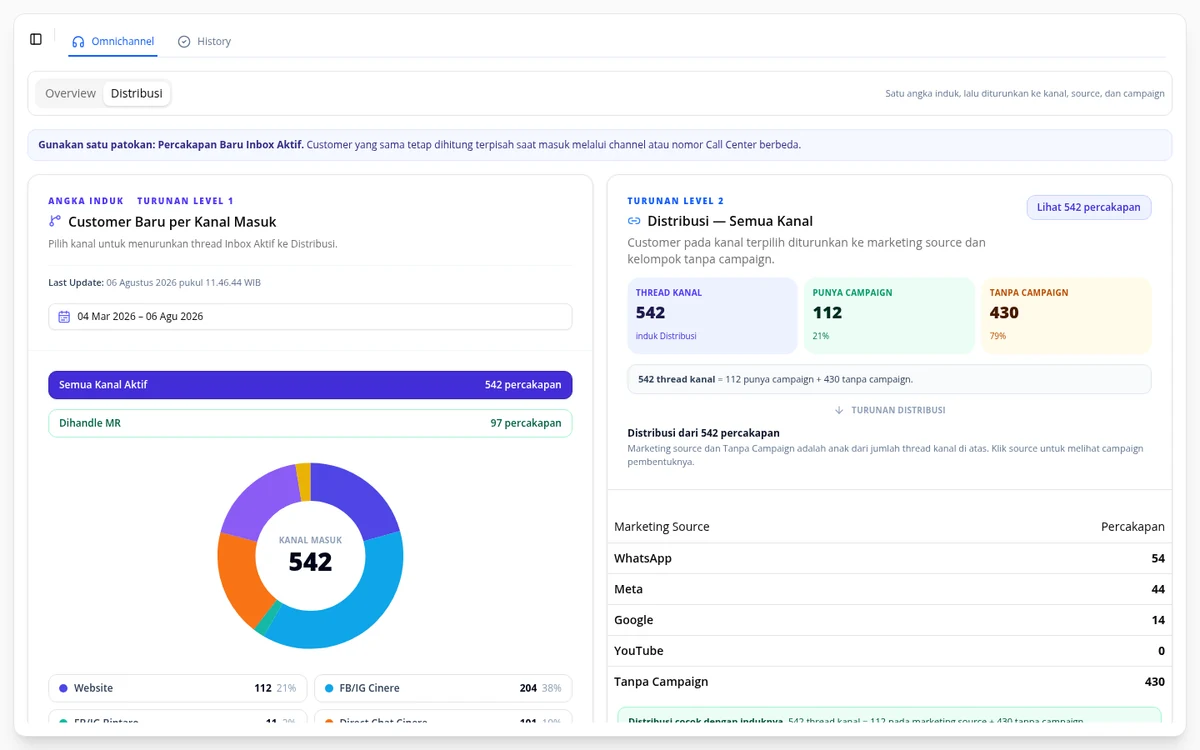
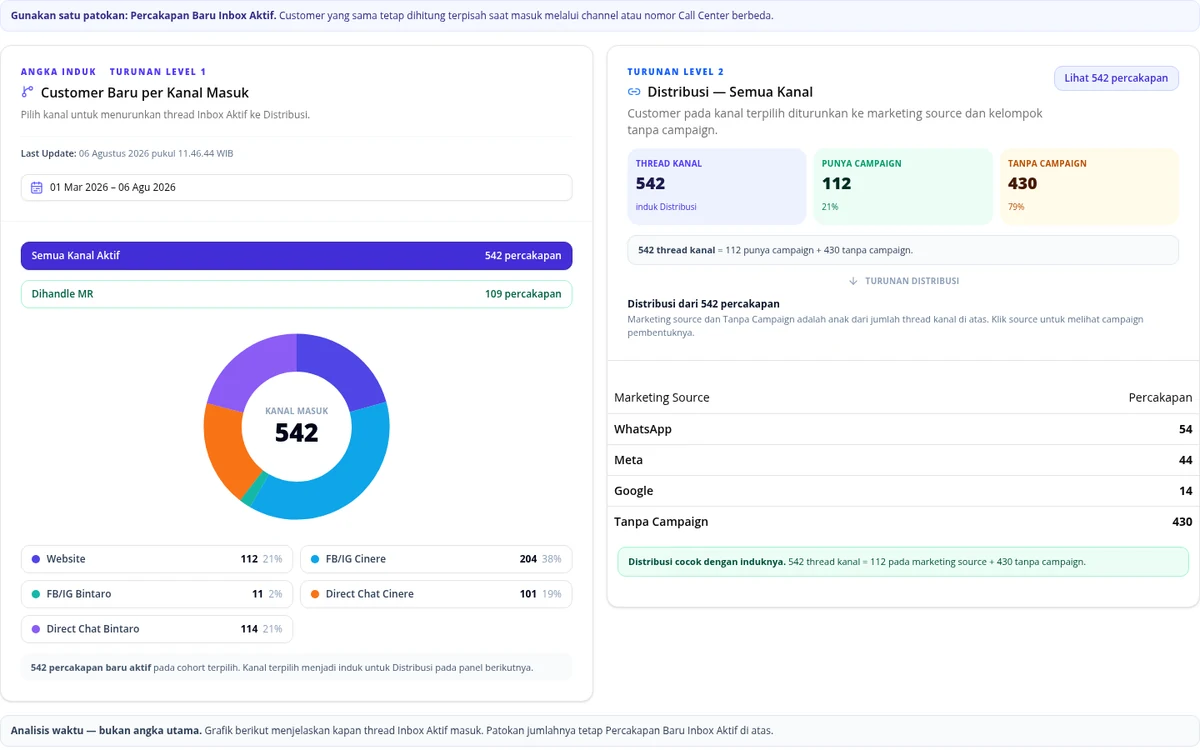
fix(fitur): tampilkan channel breakdown lengkap

diff --git a/fitur/feature-page.js b/fitur/feature-page.js
@@ -571,7 +571,7 @@
     return `<picture>
               <source
                 type="image/webp"
-                srcset="${variantBase}-720.webp?v=20260806-img-1 720w, ${variantBase}-1200.webp?v=20260806-img-1 1200w"
+                srcset="${variantBase}-720.webp?v=20260806-img-2 720w, ${variantBase}-1200.webp?v=20260806-img-2 1200w"
                 sizes="${sizes}"
               >
               ${image}
@@ -657,7 +657,7 @@
       );
     } else if (slug === "personalisasi-report-sales" && index === 1) {
       preview = captured(
-        "report-channel-breakdown-public.png",
+        "report-channel-breakdown-public.png?v=20260806-report-channel-2",
         "Report · Channel Breakdown",
         "Percakapan aktif diturunkan ke kanal masuk, marketing source, dan campaign agar kontribusi setiap channel mudah dibandingkan.",
       );

diff --git a/fitur/personalisasi-report-sales.html b/fitur/personalisasi-report-sales.html
@@ -66,7 +66,7 @@
 
     <script>window.__FEATURE_SLUG__ = "personalisasi-report-sales";</script>
     <script src="./features-data.js"></script>
-    <script src="./feature-page.js?v=20260806-image-performance-1"></script>
+    <script src="./feature-page.js?v=20260806-image-performance-2"></script>
     <script src="../script.js?v=20260806-2"></script>
   </body>
 </html>
